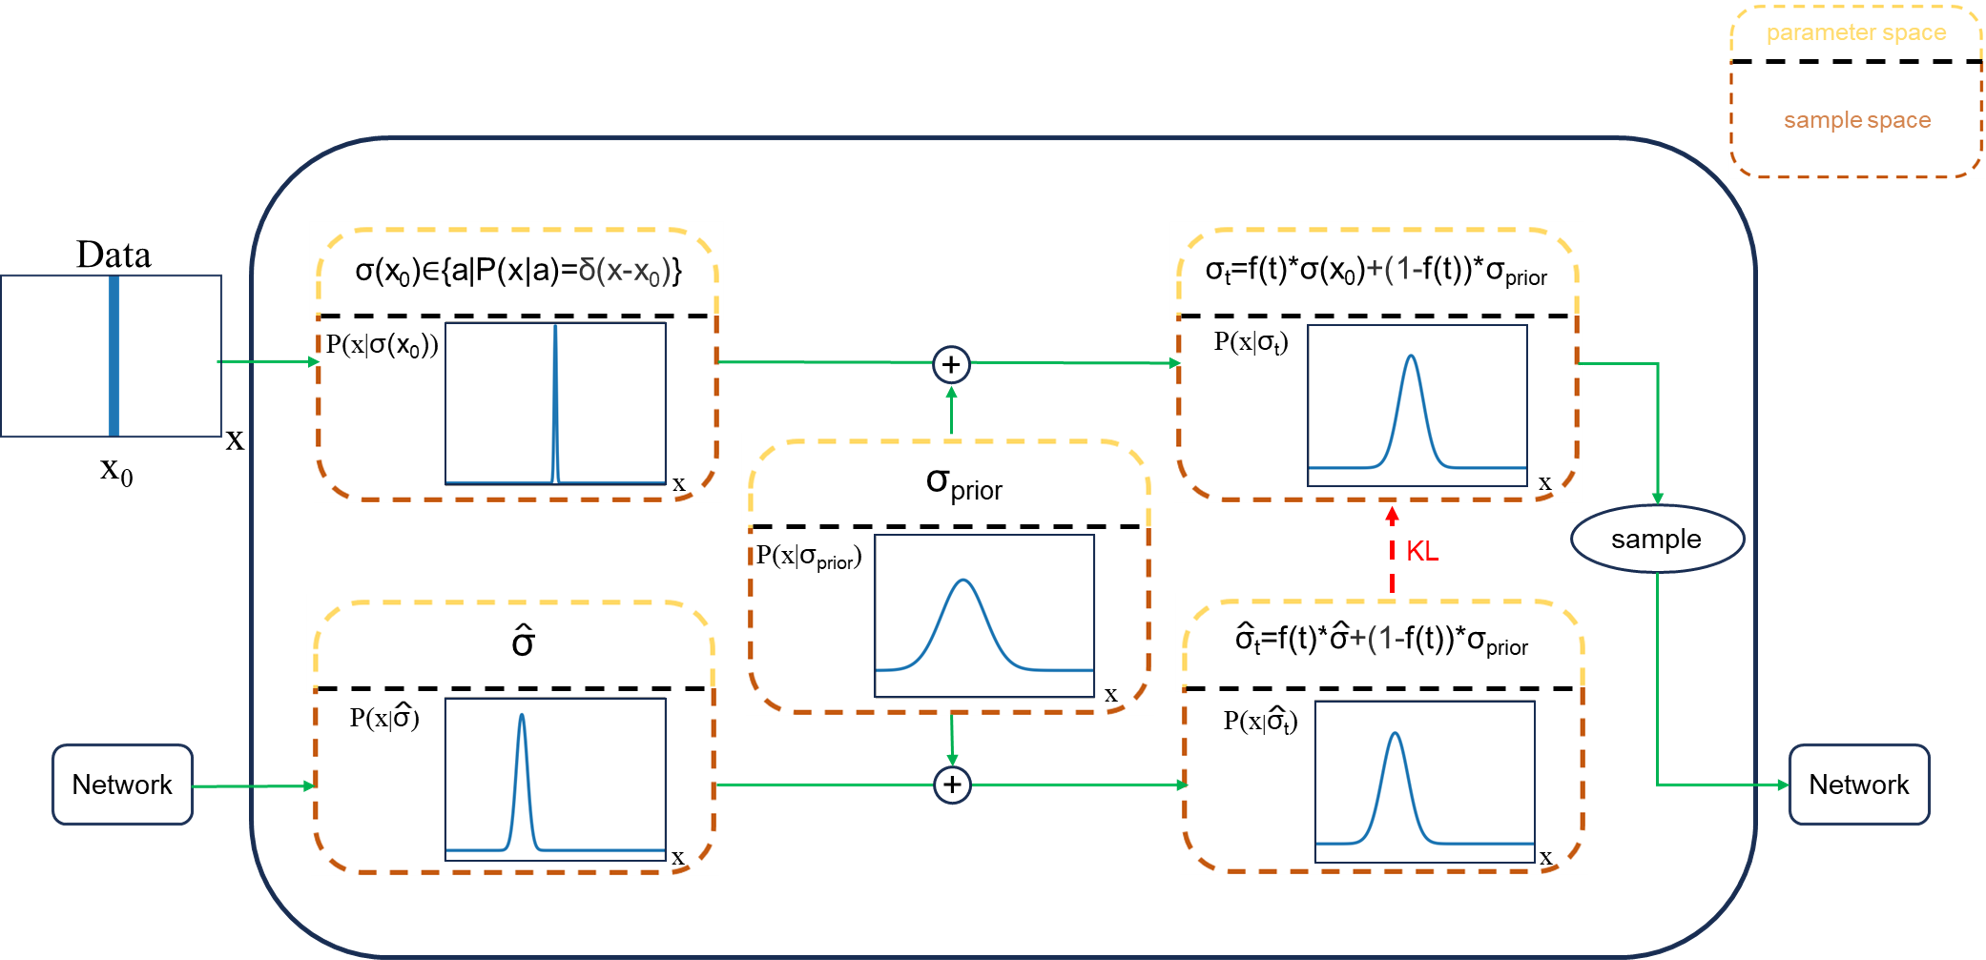
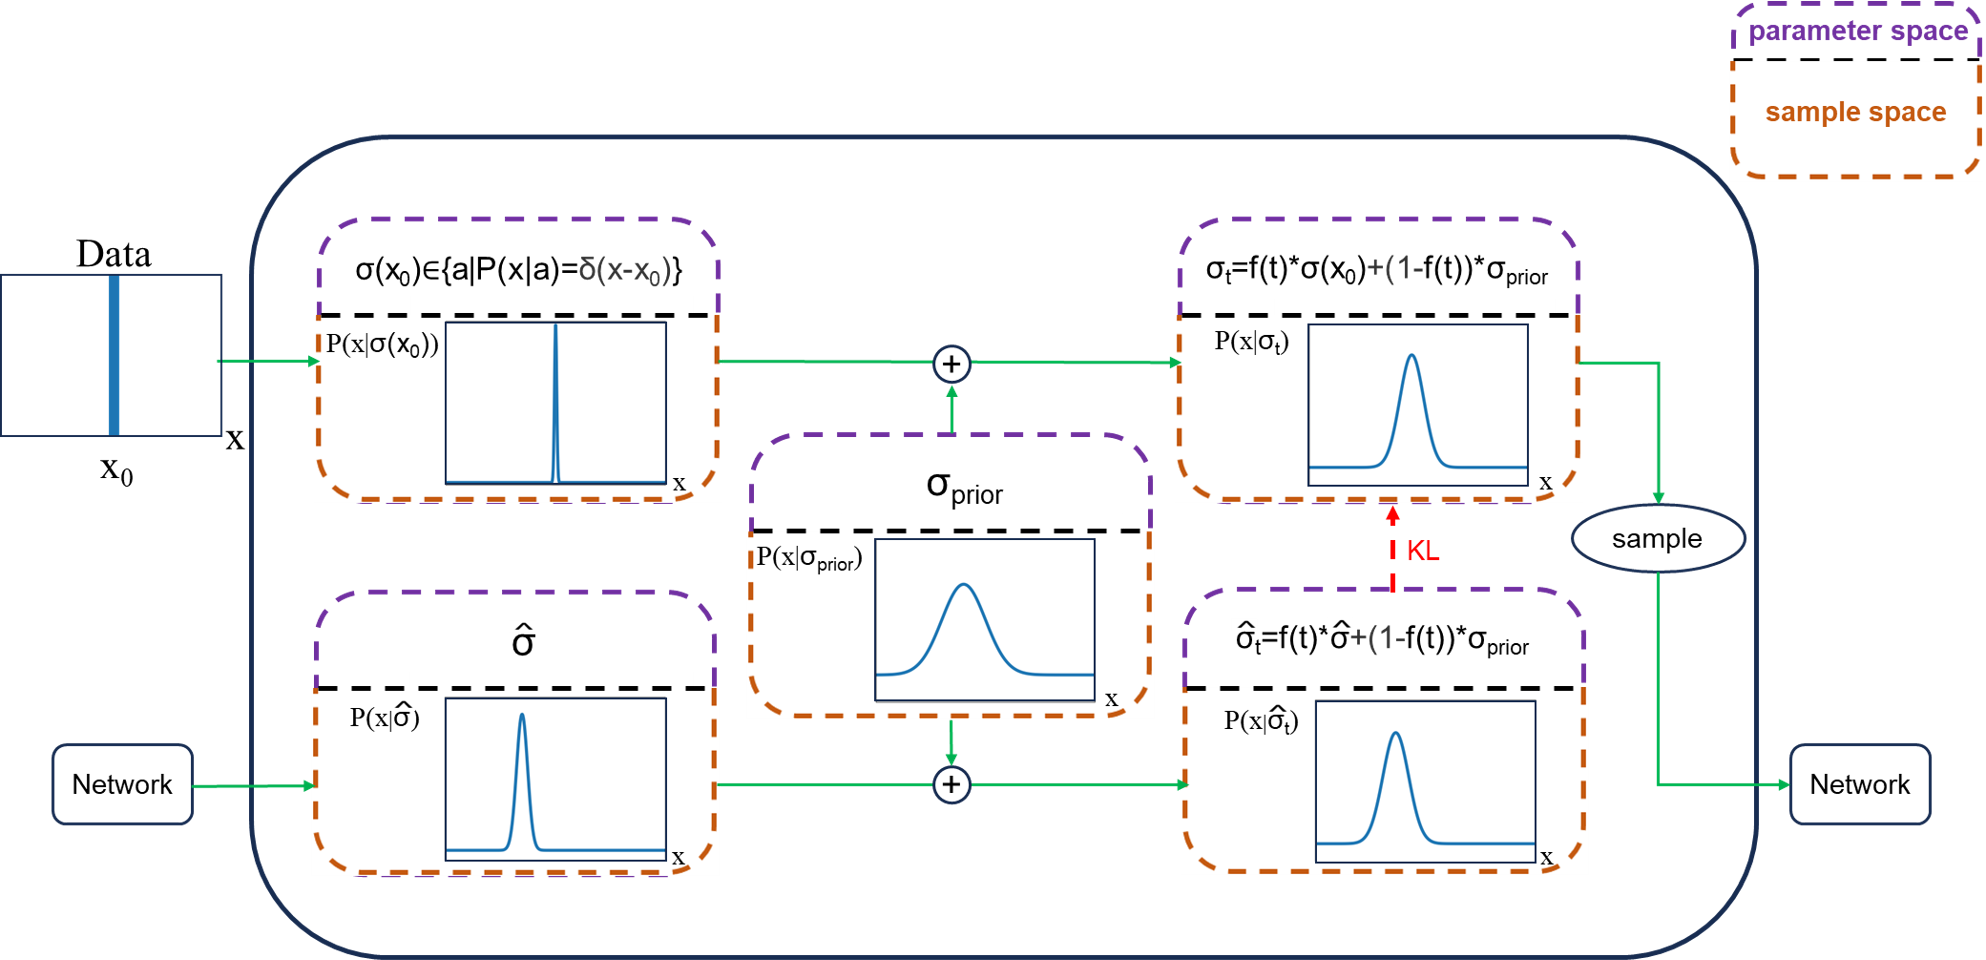
Initial commit

diff --git a/core/models/pif4sbdd.py b/core/models/pif4sbdd.py
@@ -402,15 +402,13 @@ class PIF4SBDDScoreModel(BFNBase):
 
         K = self.num_classes
 
-        # TODO test
-        if self.pos_init_mode == 'zero':
-            mu_pos_t = torch.zeros((n_nodes, 3)).to(
-                self.device
-            )  # [N, 3] coordinates prior N(0, 1)
-        elif self.pos_init_mode == 'randn':
-            mu_pos_t = torch.randn((n_nodes, 3)).to(self.device)
+        ### prior for x ###
+        mu_pos_t = torch.randn((n_nodes, 3)).to(self.device)
 
+        # laplace_dist = torch.distributions.Laplace(torch.tensor(0.0), torch.tensor(1.0))  # laplace prior
+        # mu_pos_t = laplace_dist.sample((n_nodes, 3)).to(self.device)
 
+        ### prior for h ###
         a_dirichlet = torch.ones((n_nodes, K)) / K
         dirichlet_dist = torch.distributions.Dirichlet(a_dirichlet)
         theta_h_t = dirichlet_dist.sample().to(self.device)

diff --git a/core/models/bfn_base.py b/core/models/bfn_base.py
@@ -103,7 +103,11 @@ class BFNBase(nn.Module):
         
         x_flow = [gamma * x, (1 - gamma) * prior[1]]  # flow
 
+
         mu = x_flow[0] + torch.sqrt(x_flow[1]) * torch.randn_like(x).to(x.device)  # std = sqrt(1 - gamma**2)
+
+        # laplace_dist = torch.distributions.Laplace(x_flow[0], x_flow[1])  # laplace prior
+        # mu = laplace_dist.sample().to(self.device)
 
         return mu
 
@@ -198,6 +202,13 @@ class BFNBase(nn.Module):
             loss = scatter_mean(
                 weight.view(-1) * ((x_pred - x) ** 2).sum(-1), segment_ids, dim=0
             )
+
+
+        # b = 1 - gamma  # laplace prior
+        # if segment_ids is not None:
+        #     loss = scatter_mean(
+        #         np.sqrt(N) * (torch.exp(-torch.abs(x_pred - x)/b) + torch.abs(x_pred - x)/b).sum(-1), segment_ids, dim=0
+        #     )
 
         return loss
 

diff --git a/train.py b/train.py
@@ -210,7 +210,7 @@ if __name__ == "__main__":
         "--time_emb_mode", type=str, default="simple", choices=["simple", "sin", 'rbf', 'rbfnn']
     )
     parser.add_argument("--time_emb_dim", type=int, default=1)
-    parser.add_argument('--pos_init_mode', type=str, default='randn', choices=['zero', 'randn'])
+    parser.add_argument('--pos_init_mode', type=str, default='randn', choices=['zero', 'randn'])  # not used
 
     # eval params
     parser.add_argument('--ckpt_path', type=str, default='best', help='path to the checkpoint')
